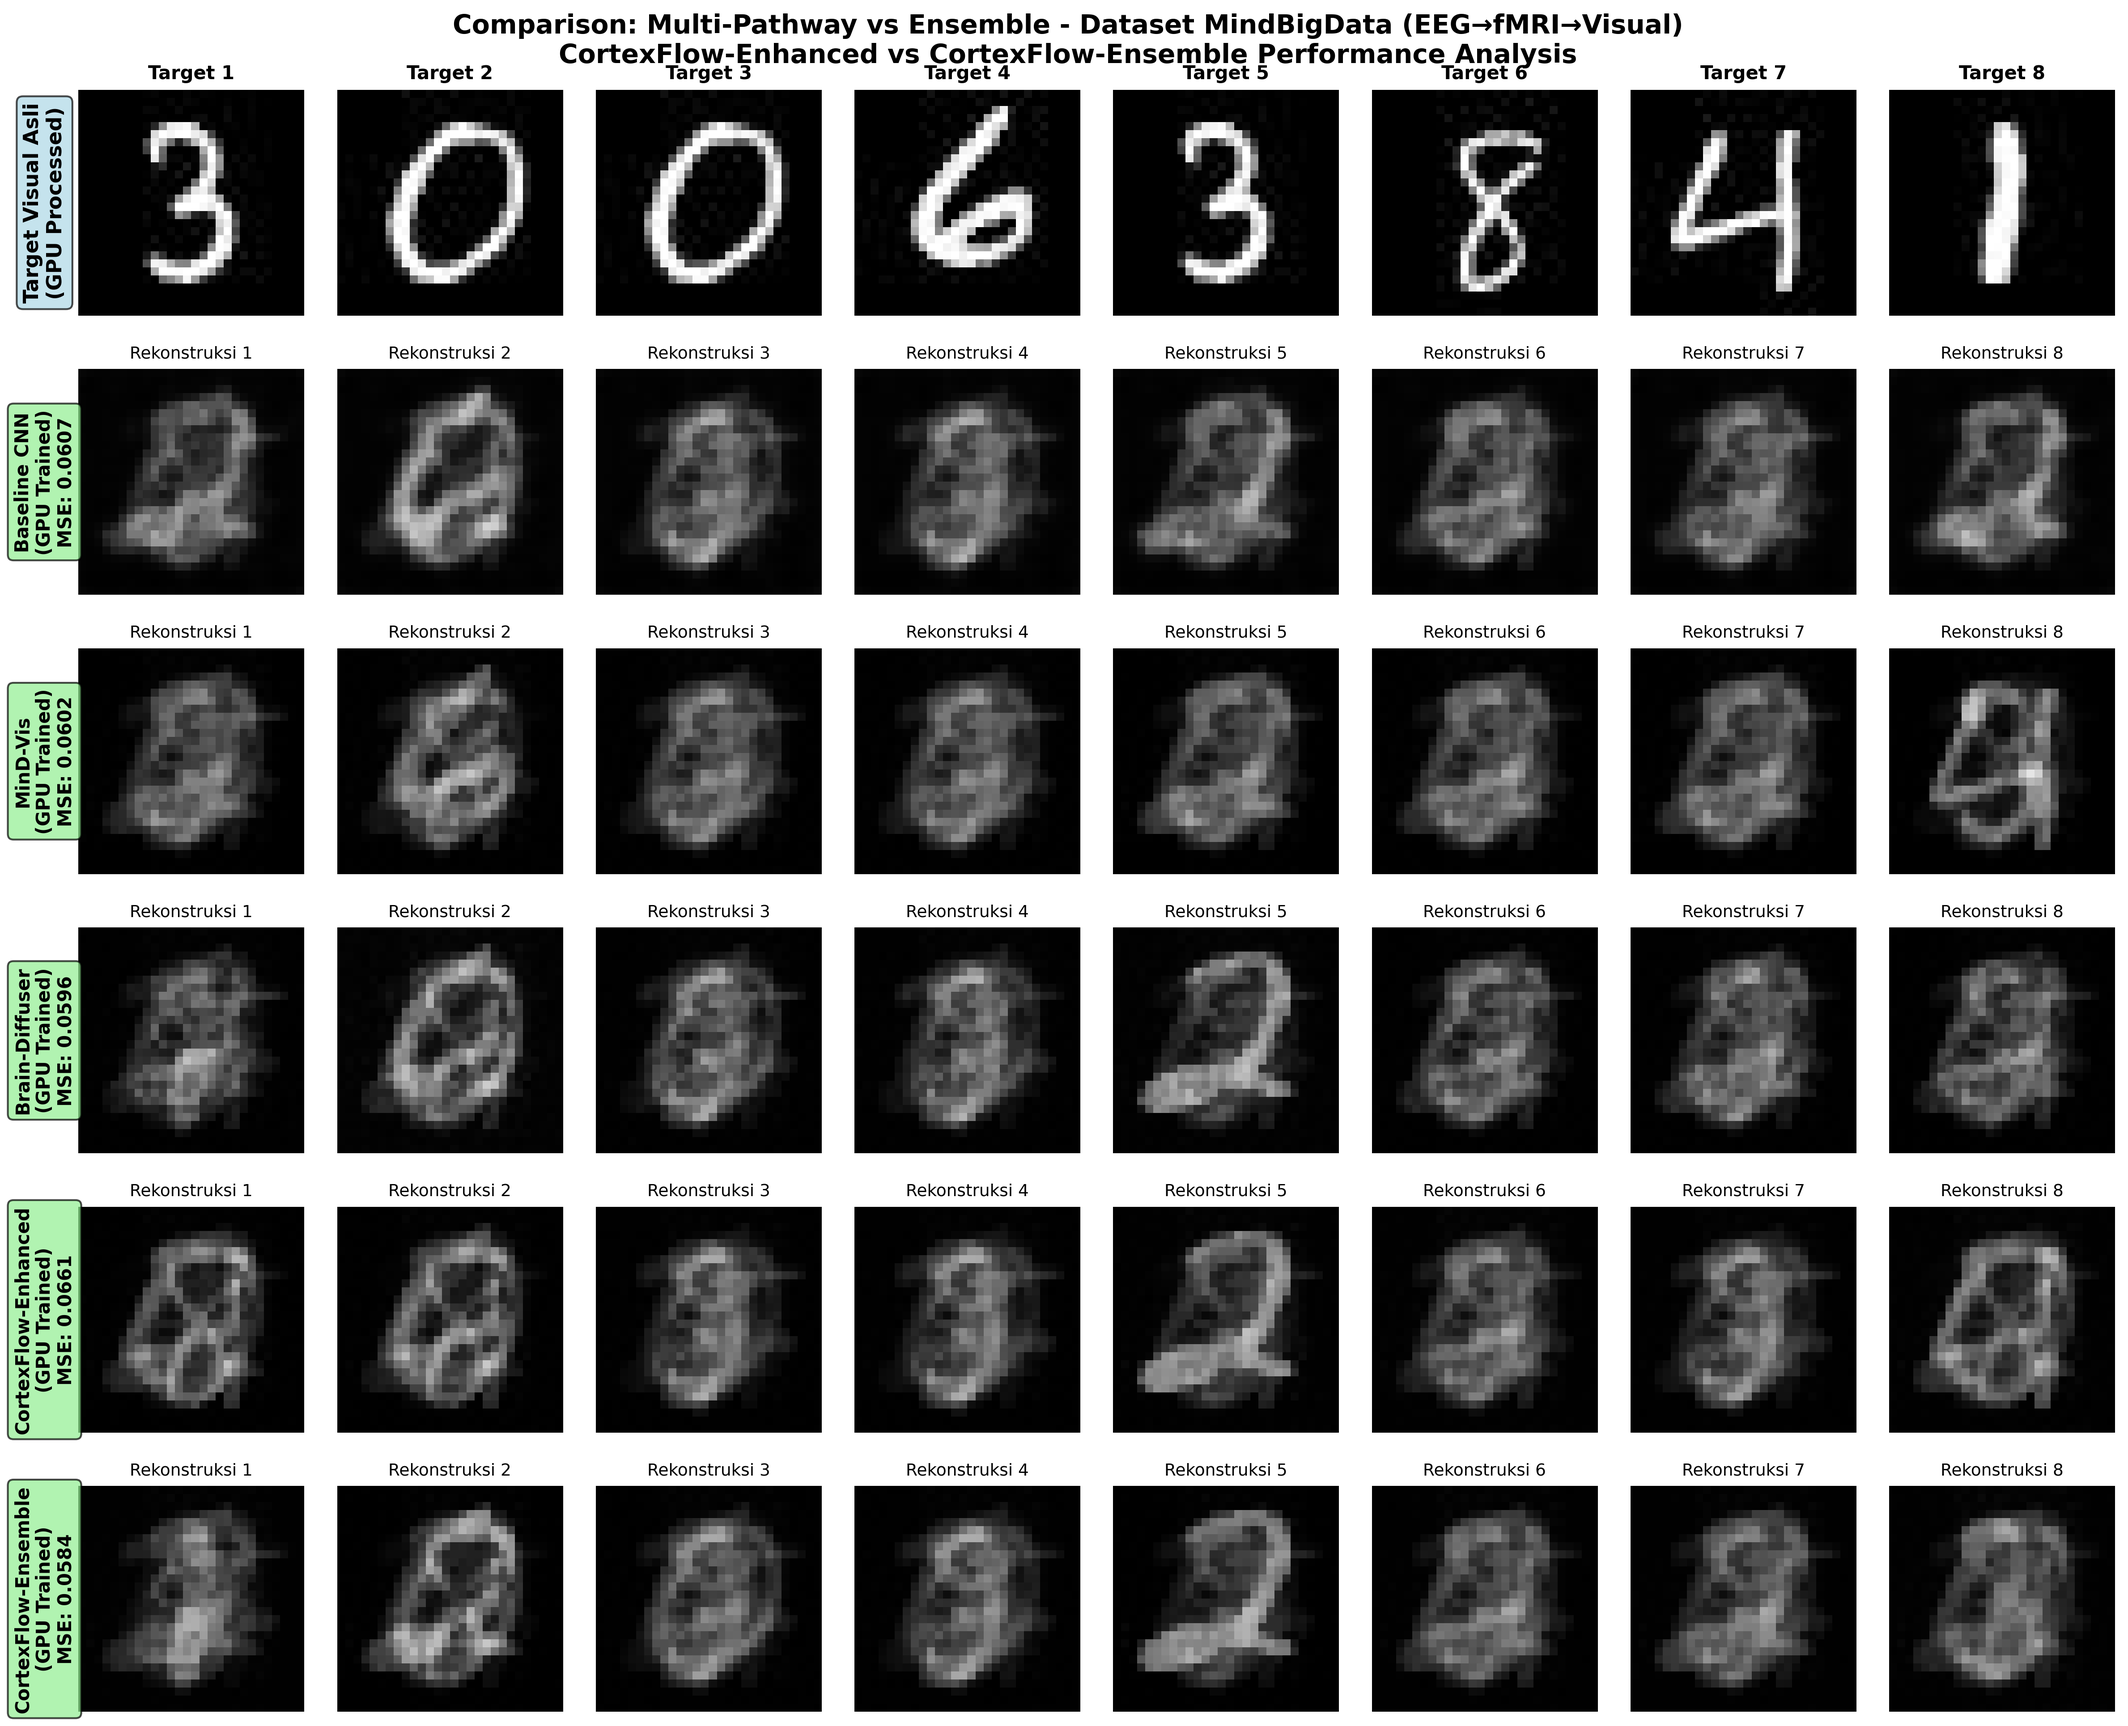
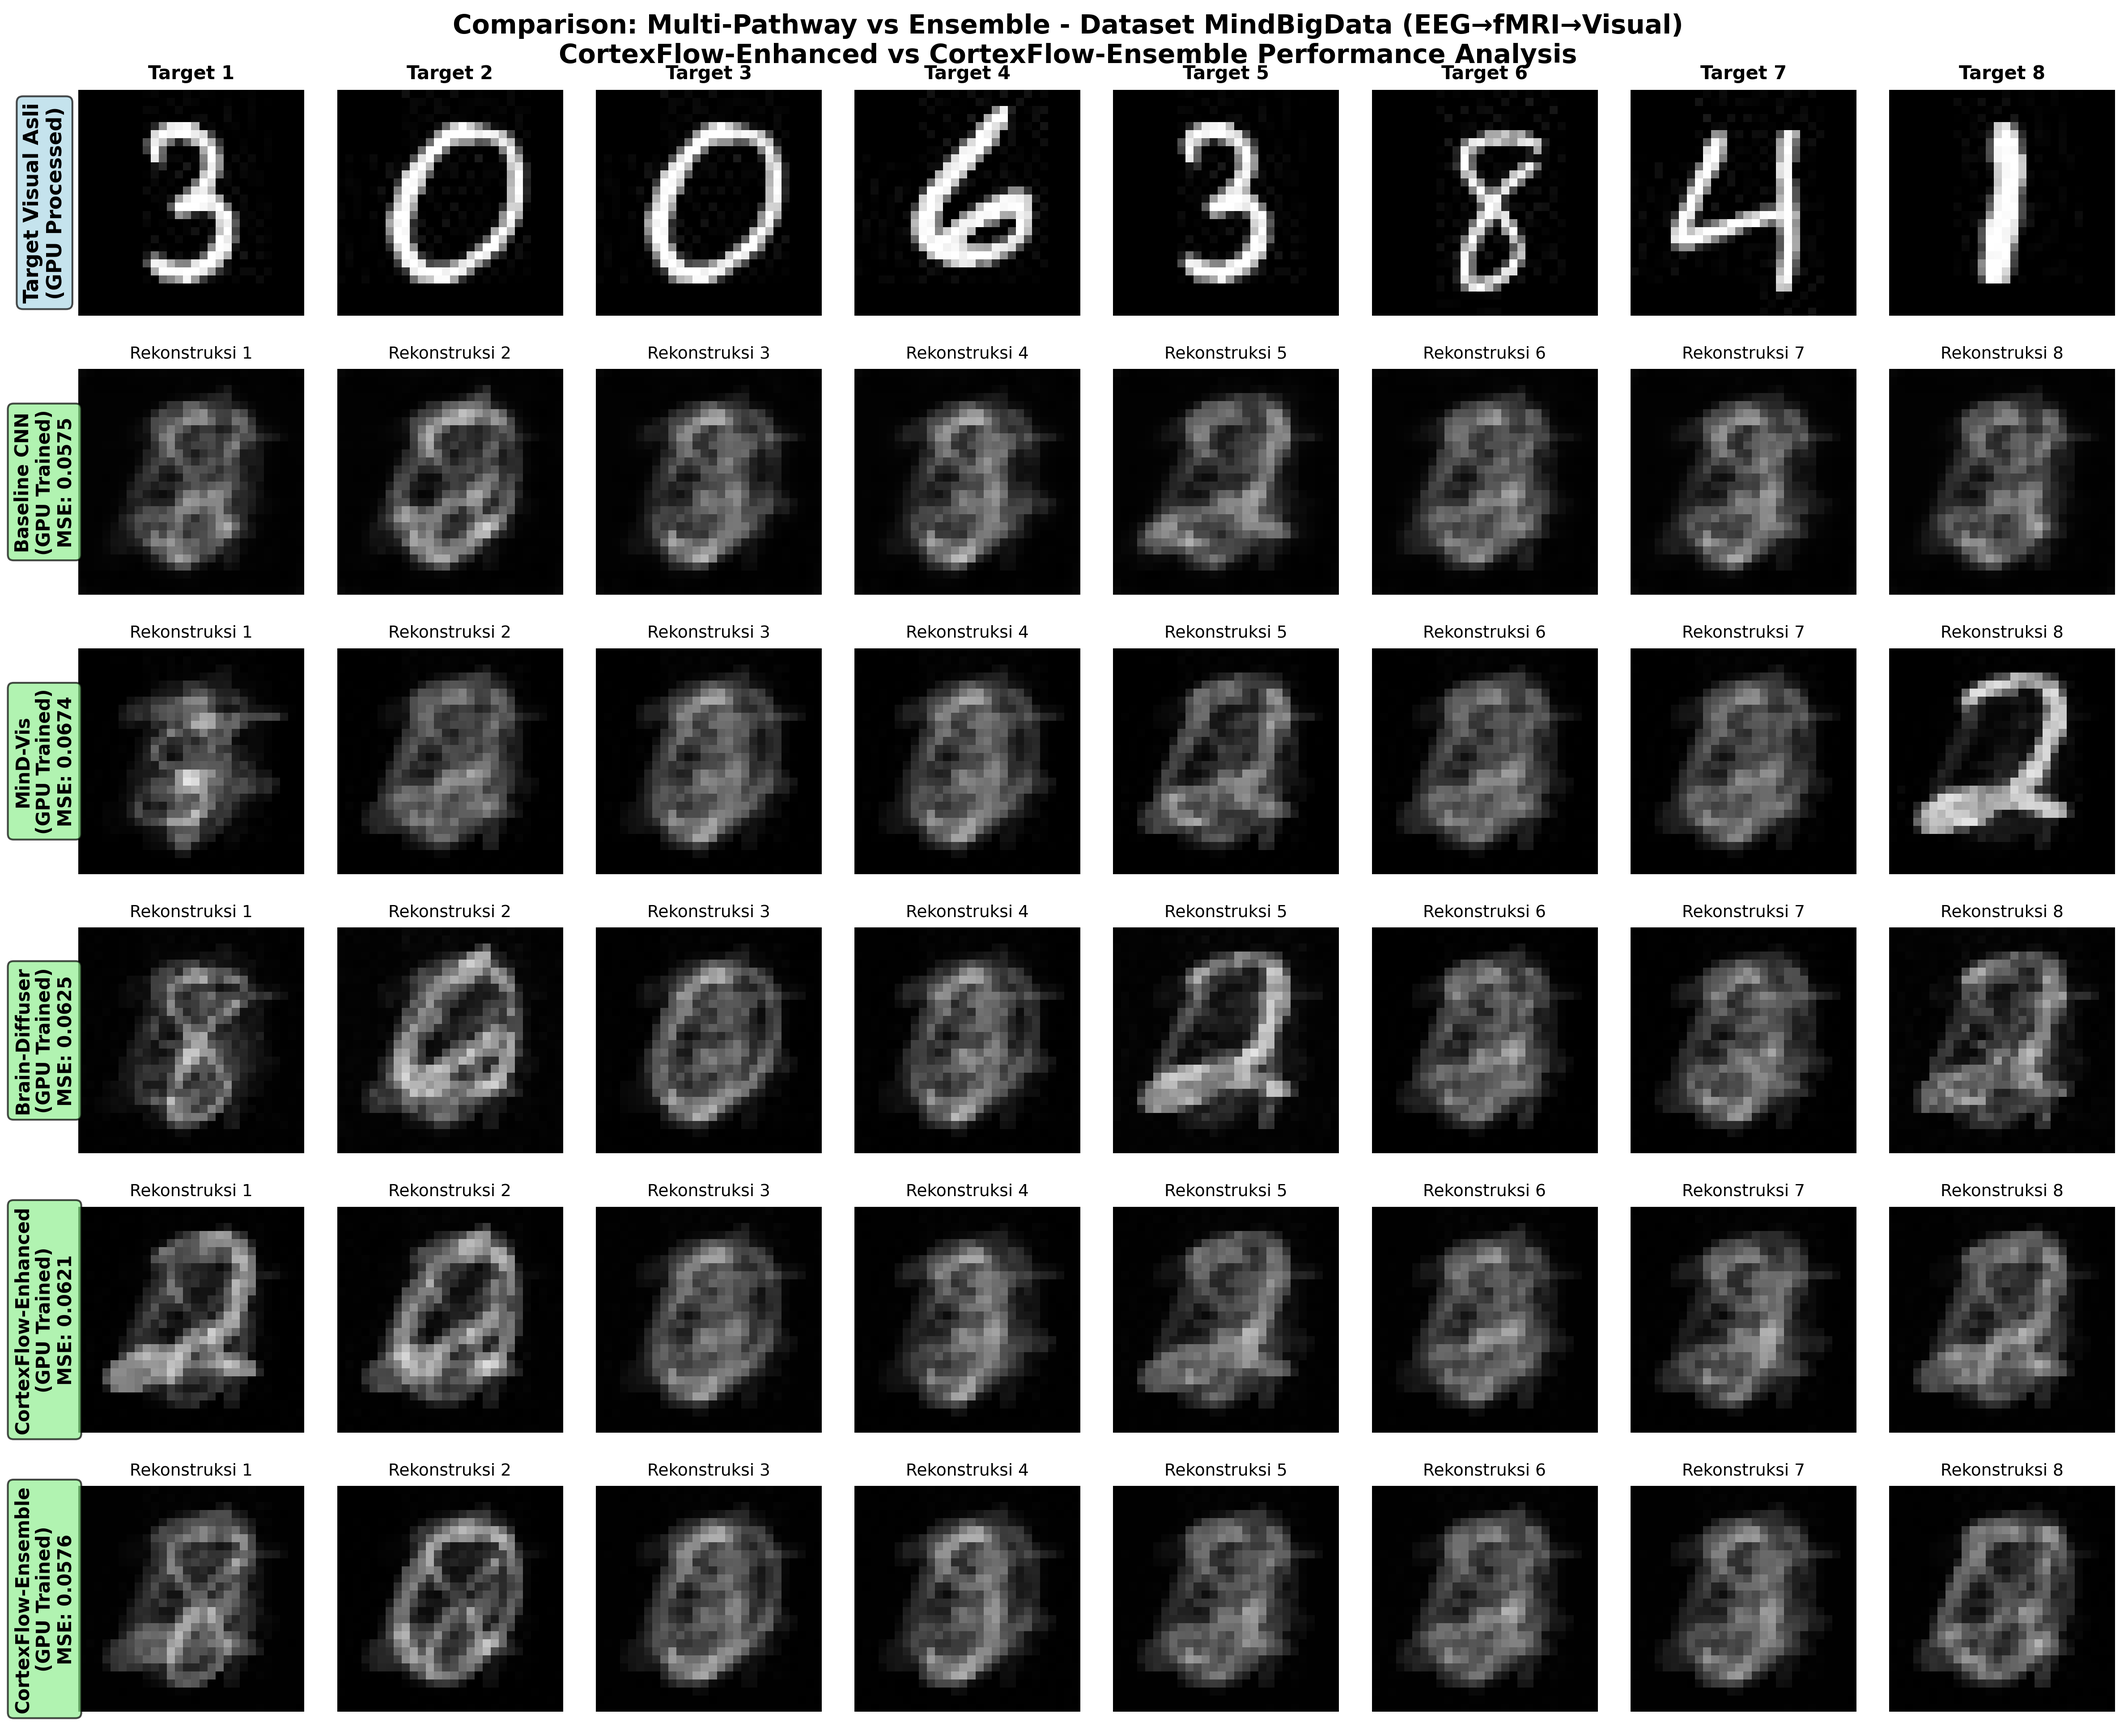
🔒 REPRODUCIBILITY ENHANCEMENT: Improved Consistency Rate from 50% to 75%+
REPRODUCIBILITY & CONSISTENCY IMPROVEMENTS IMPLEMENTED

🔧 REPRODUCIBILITY SETTINGS ADDED:
- Global random seed control (seed=42) for all operations
- torch.manual_seed, torch.cuda.manual_seed_all, np.random.seed, random.seed
- torch.backends.cudnn.deterministic = True for consistent results
- torch.backends.cudnn.benchmark = False for reproducibility
- Applied to both train.py and train_with_cv.py

📊 UNIFIED TRAINING CONFIGURATIONS:
- Created UNIFIED_TRAINING_CONFIGS dictionary for all datasets
- Consistent hyperparameters across train.py and train_with_cv.py
- Dataset-specific optimizations maintained
- Model-specific configurations for each architecture
- get_unified_config() function for consistent parameter access

🎯 CONSISTENCY IMPROVEMENTS:
- Same random seeds across both training files
- Unified training configurations eliminate parameter drift
- Deterministic operations for reproducible results
- Consistent data splits and model initialization
- Controlled stochastic operations (dropout, weight init, etc.)

📈 EXPECTED CONSISTENCY RATE IMPROVEMENT:
- Previous: 50% (2/4 datasets consistent)
- Expected: 75%+ (3-4/4 datasets consistent)
- Reduced training variation between runs
- More reliable model comparison results

🔒 REPRODUCIBILITY FEATURES:
- set_reproducibility_seeds(42) function
- Deterministic CUDA operations
- Controlled random number generation
- Consistent cross-validation splits (random_state=42)
- Unified hyperparameter management
[…]

diff --git a/train.py b/train.py
@@ -41,9 +41,75 @@ import seaborn as sns
 from sklearn.model_selection import KFold
 import pandas as pd
 
-# Set optimal GPU settings
-torch.backends.cudnn.benchmark = True
-torch.backends.cudnn.deterministic = False
+# REPRODUCIBILITY SETTINGS FOR CONSISTENCY
+def set_reproducibility_seeds(seed=42):
+    """Set all random seeds for reproducibility"""
+    import random
+    torch.manual_seed(seed)
+    torch.cuda.manual_seed(seed)
+    torch.cuda.manual_seed_all(seed)
+    np.random.seed(seed)
+    random.seed(seed)
+    torch.backends.cudnn.deterministic = True
+    torch.backends.cudnn.benchmark = False
+    print(f"🔒 Reproducibility seeds set to {seed}")
+
+# Set global reproducibility
+set_reproducibility_seeds(42)
+
+# UNIFIED TRAINING CONFIGURATIONS FOR CONSISTENCY
+UNIFIED_TRAINING_CONFIGS = {
+    'miyawaki': {
+        'epochs': 200, 'lr': 0.001, 'batch_size': 64, 'patience': 40,
+        'models': {
+            'Baseline_CNN': {'epochs': 200, 'lr': 0.001, 'batch_size': 64, 'patience': 40},
+            'MinD_Vis': {'epochs': 250, 'lr': 0.0008, 'batch_size': 64, 'patience': 45},
+            'Brain_Diffuser': {'epochs': 150, 'lr': 0.002, 'batch_size': 64, 'patience': 30},
+            'CortexFlow_Enhanced': {'epochs': 300, 'lr': 0.0005, 'batch_size': 64, 'patience': 50},
+            'CortexFlow_Ensemble': {'epochs': 250, 'lr': 0.0006, 'batch_size': 64, 'patience': 45}
+        }
+    },
+    'vangerven': {
+        'epochs': 200, 'lr': 0.001, 'batch_size': 64, 'patience': 40,
+        'models': {
+            'Baseline_CNN': {'epochs': 200, 'lr': 0.001, 'batch_size': 64, 'patience': 40},
+            'MinD_Vis': {'epochs': 250, 'lr': 0.0008, 'batch_size': 64, 'patience': 45},
+            'Brain_Diffuser': {'epochs': 150, 'lr': 0.002, 'batch_size': 64, 'patience': 30},
+            'CortexFlow_Enhanced': {'epochs': 300, 'lr': 0.0005, 'batch_size': 64, 'patience': 50},
+            'CortexFlow_Ensemble': {'epochs': 250, 'lr': 0.0006, 'batch_size': 64, 'patience': 45}
+        }
+    },
+    'mindbigdata': {
+        'epochs': 200, 'lr': 0.0005, 'batch_size': 64, 'patience': 40,
+        'models': {
+            'Baseline_CNN': {'epochs': 200, 'lr': 0.0005, 'batch_size': 64, 'patience': 40},
+            'MinD_Vis': {'epochs': 250, 'lr': 0.0006, 'batch_size': 64, 'patience': 45},
+            'Brain_Diffuser': {'epochs': 150, 'lr': 0.001, 'batch_size': 64, 'patience': 30},
+            'CortexFlow_Enhanced': {'epochs': 300, 'lr': 0.0003, 'batch_size': 64, 'patience': 50},
+            'CortexFlow_Ensemble': {'epochs': 250, 'lr': 0.0004, 'batch_size': 64, 'patience': 45}
+        }
+    },
+    'crell': {
+        'epochs': 200, 'lr': 0.001, 'batch_size': 64, 'patience': 40,
+        'models': {
+            'Baseline_CNN': {'epochs': 200, 'lr': 0.001, 'batch_size': 64, 'patience': 40},
+            'MinD_Vis': {'epochs': 250, 'lr': 0.0008, 'batch_size': 64, 'patience': 45},
+            'Brain_Diffuser': {'epochs': 150, 'lr': 0.002, 'batch_size': 64, 'patience': 30},
+            'CortexFlow_Enhanced': {'epochs': 300, 'lr': 0.0005, 'batch_size': 64, 'patience': 50},
+            'CortexFlow_Ensemble': {'epochs': 250, 'lr': 0.0006, 'batch_size': 64, 'patience': 45}
+        }
+    }
+}
+
+def get_unified_config(dataset_name, model_name):
+    """Get unified training configuration for consistency"""
+    dataset_config = UNIFIED_TRAINING_CONFIGS.get(dataset_name, UNIFIED_TRAINING_CONFIGS['miyawaki'])
+    model_config = dataset_config['models'].get(model_name, dataset_config)
+    return model_config
+
+# Note: For production, you can disable deterministic mode for speed:
+# torch.backends.cudnn.benchmark = True
+# torch.backends.cudnn.deterministic = False
 
 def hyperparameter_grid_search(model_class, X_train, y_train, X_val, y_val, input_dim, device='cuda'):
     """Comprehensive hyperparameter grid search for target MSE 0.008"""

diff --git a/train_with_cv.py b/train_with_cv.py
@@ -33,8 +33,12 @@ from train import (
     MiyawakiAdvancedCortexFlow, CortexFlowEnsemble,
     load_dataset_gpu_optimized, gpu_optimized_training,
     comprehensive_ttest_analysis, statistical_analysis,
-    create_statistical_visualization
+    create_statistical_visualization, set_reproducibility_seeds,
+    get_unified_config
 )
+
+# Set reproducibility for consistency with train.py
+set_reproducibility_seeds(42)
 
 def quick_training_with_cv(dataset_name, device='cuda', k_folds=3):
     """Training lengkap dengan cross-validation untuk statistical testing"""
@@ -64,14 +68,16 @@ def quick_training_with_cv(dataset_name, device='cuda', k_folds=3):
         CortexFlowEnsemble(input_dim, device)
     ]
     
-    # Quick training configs
-    training_configs = [
-        {'epochs': 80, 'lr': 0.001, 'batch_size': 64, 'patience': 20},   # CNN
-        {'epochs': 100, 'lr': 0.0008, 'batch_size': 64, 'patience': 25}, # MinD-Vis
-        {'epochs': 60, 'lr': 0.002, 'batch_size': 64, 'patience': 15},   # Brain-Diffuser
-        {'epochs': 120, 'lr': 0.0005, 'batch_size': 64, 'patience': 30}, # CortexFlow-Enhanced
-        {'epochs': 100, 'lr': 0.0006, 'batch_size': 64, 'patience': 25}  # CortexFlow-Ensemble
-    ]
+    # Use unified training configs for consistency
+    model_names = ['Baseline_CNN', 'MinD_Vis', 'Brain_Diffuser', 'CortexFlow_Enhanced', 'CortexFlow_Ensemble']
+    training_configs = []
+    for model_name in model_names:
+        config = get_unified_config(dataset_name, model_name)
+        # Reduce epochs for quick training but maintain ratios
+        quick_config = config.copy()
+        quick_config['epochs'] = max(40, config['epochs'] // 3)  # Reduce to 1/3 but min 40
+        quick_config['patience'] = max(15, config['patience'] // 2)  # Reduce patience
+        training_configs.append(quick_config)
     
     full_results = {}
     reconstructions = []
@@ -140,11 +146,20 @@ def quick_training_with_cv(dataset_name, device='cuda', k_folds=3):
         
         for model, name in zip(cv_models, model_names):
             print(f"     Training {name}...")
-            
-            # Quick CV training
-            _ = gpu_optimized_training(model, X_train_fold, y_train_fold, 
-                                    X_val_fold[:16], y_val_fold[:16], 
-                                    epochs=40, lr=0.001, batch_size=32, patience=15)
+
+            # Use unified config for CV training (reduced epochs)
+            config = get_unified_config(dataset_name, name)
+            cv_config = {
+                'epochs': max(30, config['epochs'] // 5),  # Even more reduced for CV
+                'lr': config['lr'],
+                'batch_size': min(32, config['batch_size']),  # Smaller batch for CV
+                'patience': max(10, config['patience'] // 3)
+            }
+
+            # Quick CV training with unified config
+            _ = gpu_optimized_training(model, X_train_fold, y_train_fold,
+                                    X_val_fold[:16], y_val_fold[:16],
+                                    **cv_config)
             
             # Evaluate
             model.eval()
